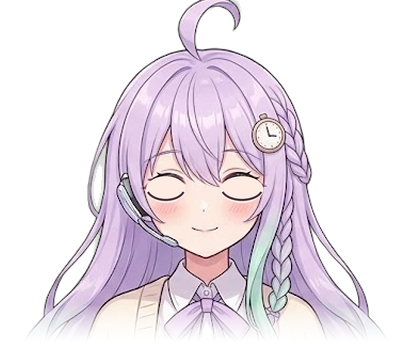
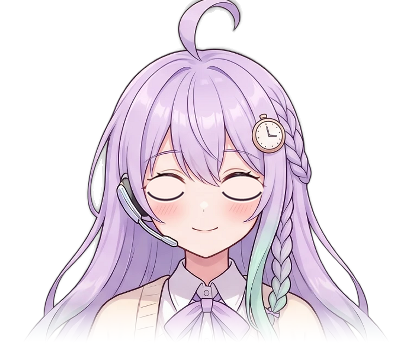
feat: rebuild Nuri's neutral frames from the upscaled base sheet
The 2000x1116 base sheet is the original layout scaled ~1.953x, so the
crop, eye midpoint, mouth and eye boxes were scaled; neutral, talk and
blink frames are now as sharp as the expressions.

Claude-Session: https://claude.ai/code/session_01L42W33ifVQcmMy8xts9BDQ

diff --git a/tools/build_frames.py b/tools/build_frames.py
@@ -29,9 +29,10 @@ CHARACTERS = {
     "nuri": dict(
         eye_px=0.767 * 89,  # output eye distance; every character uses this to share one scale
         base=dict(
-            sheet="reference_sheet.webp", crop=(520, 0, 1000, 572), mid=(752, 184.5), dist=64,
-            talk=((754.5, 224), (10, 8)),  # mouth center and size in sheet px
-            blink=((698, 737, 172, 198), (768, 810, 172, 198)), skin=(753, 186),
+            # 2000x1116 upscale of the original 1024x572 sheet; coordinates scaled by ~1.953.
+            sheet="reference_sheet.webp", crop=(1016, 0, 1953, 1116), mid=(1468.8, 360.0), dist=125,
+            talk=((1473.6, 437.0), (19.5, 15.6)),  # mouth center and size in sheet px
+            blink=((1363.3, 1439.5, 335.6, 386.3), (1500.0, 1582.0, 335.6, 386.3)), skin=(1471, 363),
         ),
         expressions=dict(
             sheet="reference_expressions.webp", dist=89,

diff --git a/assets/characters/README.md b/assets/characters/README.md
@@ -94,7 +94,7 @@ lowres, bad anatomy, bad hands, extra fingers, text, watermark, signature, multi
 
 `nuri/` 폴더의 이미지는 AI로 생성한 시트 두 장에서 잘라 만들었습니다.
 
-- 원본: `reference_sheet.webp` (기본 표정, 1024×572), `reference_expressions.webp` (표정 6종, 2000×1116 고화질)
+- 원본: `reference_sheet.webp` (기본 표정, 1024×572 시트를 2000×1116으로 업스케일), `reference_expressions.webp` (표정 6종, 2000×1116)
 - 표정 7종: `neutral`, `happy`, `thinking`, `surprised`, `sad`, `angry`, `shy`
   - 배경 제거에는 rembg의 `isnet-anime` 모델을 썼습니다.
   - 두 시트의 캐릭터 크기가 달라서, 눈 위치와 눈 사이 거리를 기준으로 크기와 위치를 맞추고 모두 머리부터 가슴까지로 같은 구도로 잘랐습니다.
@@ -104,7 +104,7 @@ lowres, bad anatomy, bad hands, extra fingers, text, watermark, signature, multi
   - 입을 이미 벌린 표정(기쁨, 놀람, 부끄럼)은 그 자체로 말하는 것처럼 보이므로 따로 만들지 않았습니다.
 - 대답이 끝나고 몇 초가 지나면 기본 표정으로 돌아가, 다시 눈을 깜빡입니다.
 
-표정 6종은 고화질 시트에서 잘랐지만, 기본 표정은 아직 저해상도 시트(1024×572)에서 잘라서 상대적으로 흐립니다. 기본 표정도 고화질로 다시 뽑으면 같은 방식으로 다시 잘라 넣을 수 있습니다.
+이제 기본 표정과 표정 6종 모두 고화질 시트에서 잘라 냅니다.
 
 이 이미지들은 아래 명령으로 다시 만들 수 있습니다. 시트를 새로 뽑았다면, `tools/build_frames.py`의 `CHARACTERS` 설정에 적힌 자르는 위치와 눈 위치를 먼저 새로 재야 합니다.
 
